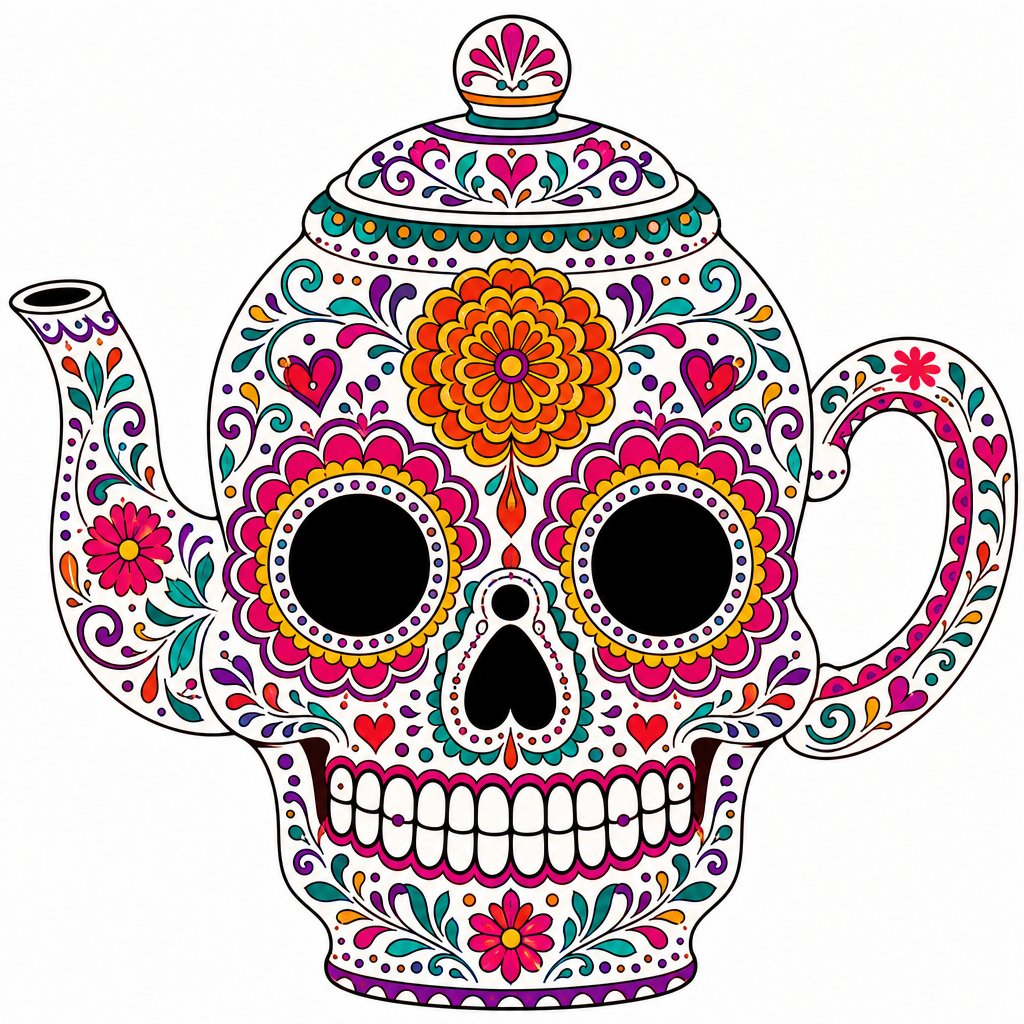
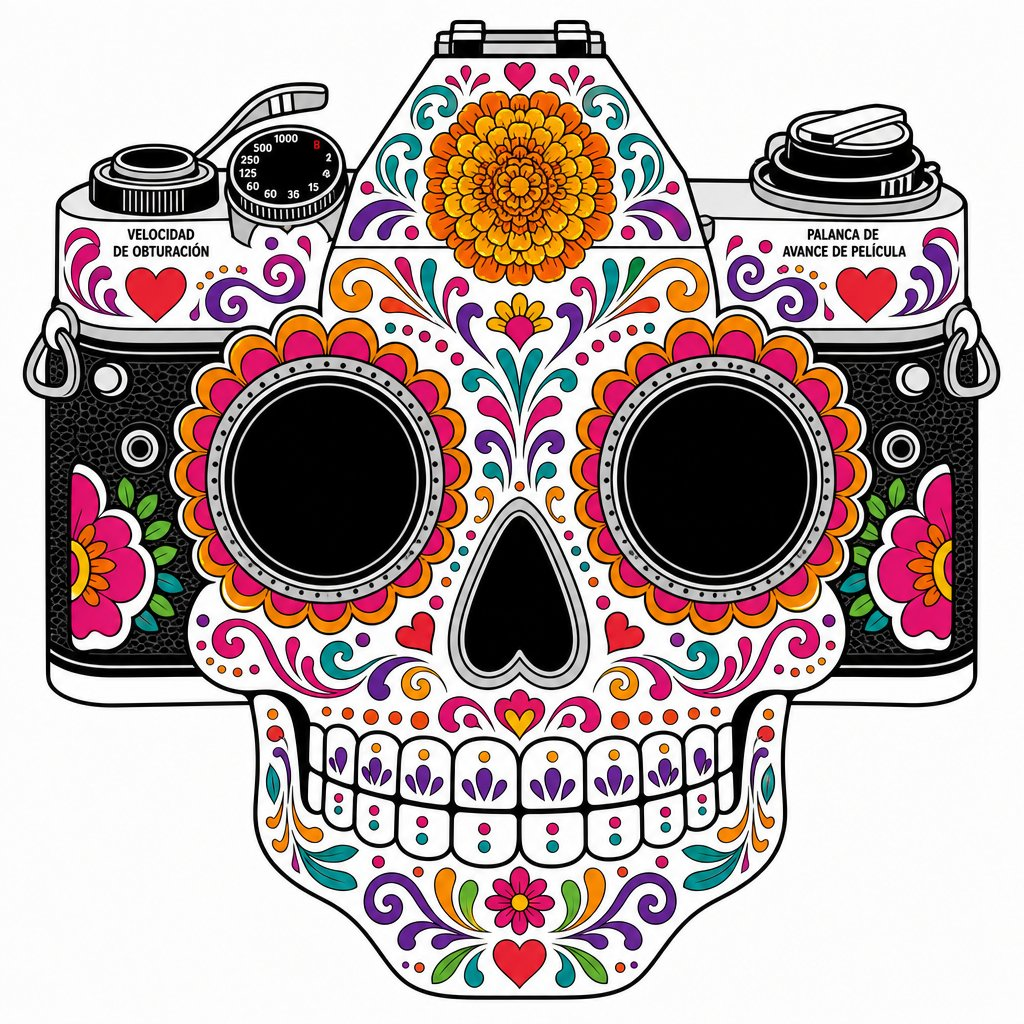
fix(trickvault): el ejemplo de /sugarskull vuelve a ser la camara, no la tetera
El usuario confirma que la imagen correcta es la camara. Se restaura el ejemplo
anterior (calavery.jpg del historial) como sugarskull.jpg, con ?v=3 en la ruta y
la version del release de xl-letras3d subida, para que los navegadores limpios
(movil) y los que ya tenian la tetera cojan la camara.

diff --git a/apps/trickvault/index.html b/apps/trickvault/index.html
@@ -1890,7 +1890,7 @@ Object.assign(SEED_COMMAND_IMAGES, {
     '/patternfill': 'assets/xl-letras3d/patternfill.jpg?v=2',
     // El ejemplo de /sugarskull se rehízo el mismo 2026-10-08 (una tetera en vez de
     // la cámara), así que también sube su ?v= para saltar la caché del CDN.
-    '/sugarskull': 'assets/xl-letras3d/sugarskull.jpg?v=2',
+    '/sugarskull': 'assets/xl-letras3d/sugarskull.jpg?v=3',
 });
 
 // ── Códigos del Excel «500 comandos secretos de ChatGPT» que NO existían
@@ -4027,7 +4027,7 @@ const GENERATED_IMAGE_RELEASES = [
     { category: 'xl-dev', prefix: 'assets/xl-dev/', key: 'trickvault-xl-dev-images-version', version: '2026-10-06-gpt-image-2-low' },
     { category: 'xl-estilos', prefix: 'assets/xl-estilos/', key: 'trickvault-xl-estilos-images-version', version: '2026-10-06-gpt-image-2-low' },
     { category: 'xl-efectosempaque', prefix: 'assets/xl-efectosempaque/', key: 'trickvault-xl-efectosempaque-images-version', version: '2026-10-06-gpt-image-2-low' },
-    { category: 'xl-letras3d', prefix: 'assets/xl-letras3d/', key: 'trickvault-xl-letras3d-images-version', version: '2026-10-08-sugarskull-generico' },
+    { category: 'xl-letras3d', prefix: 'assets/xl-letras3d/', key: 'trickvault-xl-letras3d-images-version', version: '2026-10-08-sugarskull-camara' },
     { category: 'xl-ilustracion', prefix: 'assets/xl-ilustracion/', key: 'trickvault-xl-ilustracion-images-version', version: '2026-10-06-gpt-image-2-low' },
     { category: 'xl-casaviajes', prefix: 'assets/xl-casaviajes/', key: 'trickvault-xl-casaviajes-images-version', version: '2026-10-06-gpt-image-2-low' },
     { category: 'xl-camararetrato', prefix: 'assets/xl-camararetrato/', key: 'trickvault-xl-camararetrato-images-version', version: '2026-10-06-gpt-image-2-low' },
